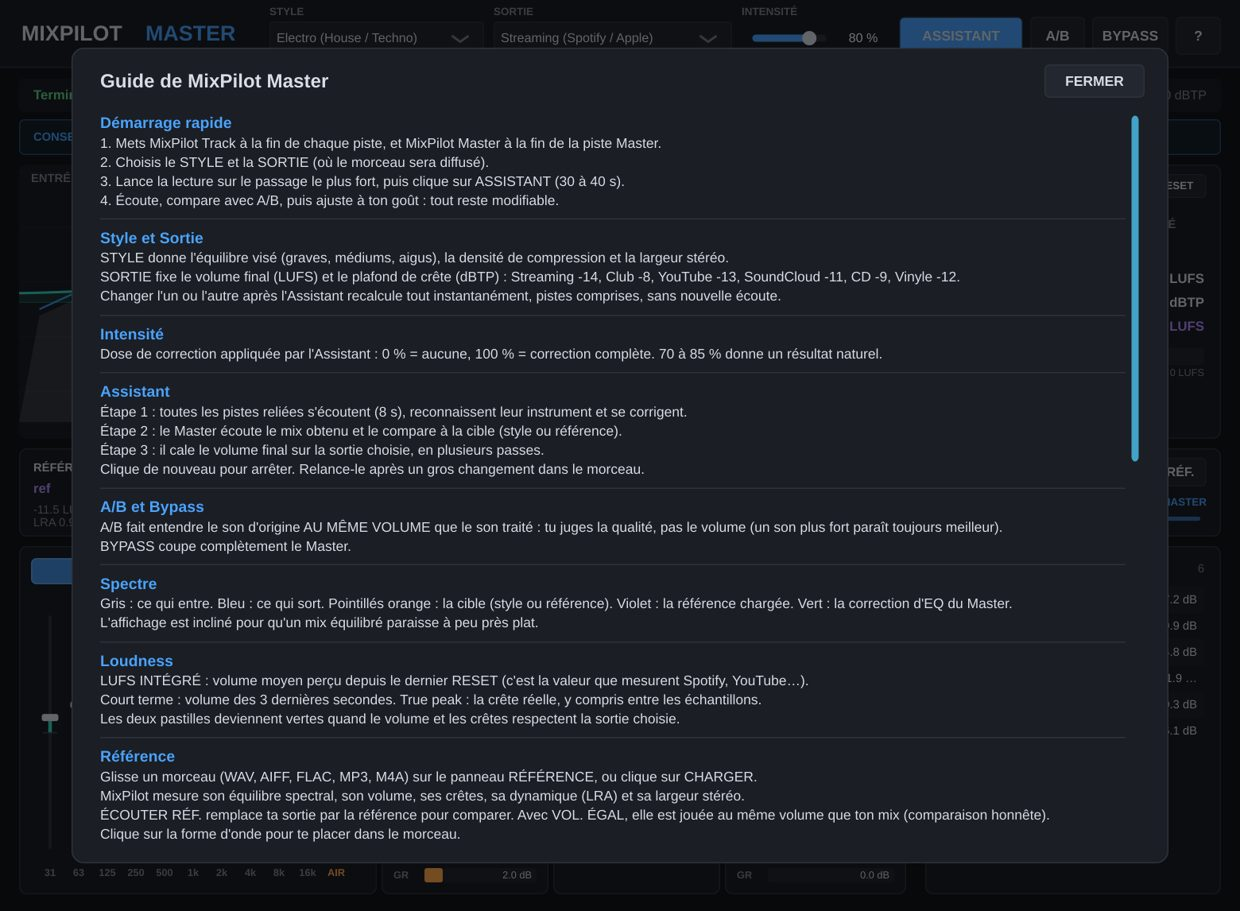
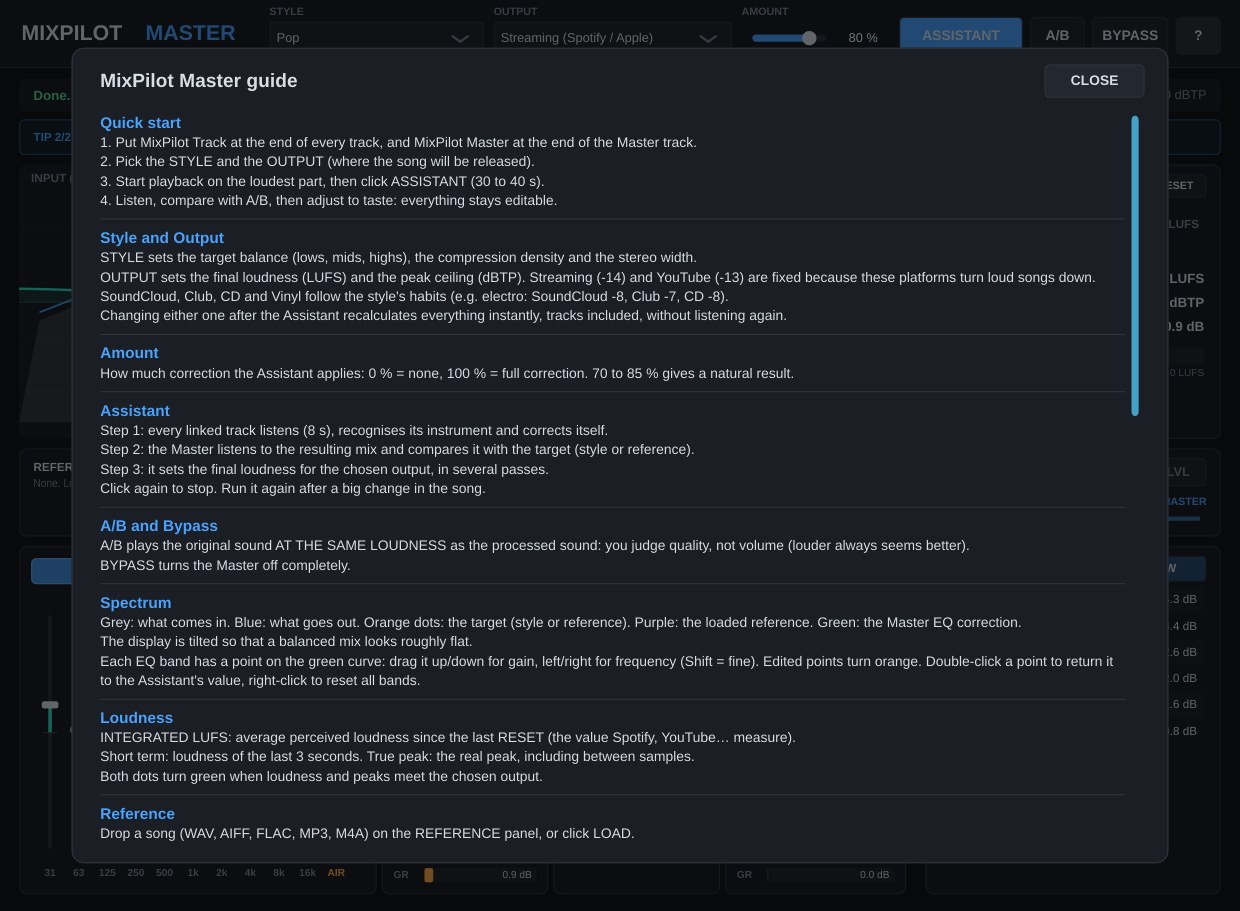
MixPilot screenshots: English 1.1 interface with the editable EQ
Claude-Session: https://claude.ai/code/session_01YWUtsht9CB1mmErXRbjodE

diff --git a/index.html b/index.html
@@ -389,13 +389,13 @@ nav a.nav-sow{color:#ff7a1a}
       </div>
       
     <div class="mp-shots">
-        <div class="screen mp-screen"><img id="mpshot" src="img/mixpilot-master.jpg" alt="MixPilot Master interface" width="1240" height="911"></div>
+        <div class="screen mp-screen"><img id="mpshot" src="img/mixpilot-master.jpg?v=2" alt="MixPilot Master interface" width="1240" height="911"></div>
         <div class="tabs" role="tablist" aria-label="MixPilot screenshots">
           <button class="tab mptab" role="tab" aria-selected="true" data-k="0">Master</button>
           <button class="tab mptab" role="tab" aria-selected="false" data-k="1">Track</button>
           <button class="tab mptab" role="tab" aria-selected="false" data-k="2">Built-in guide</button>
         </div>
-        <p class="caption" id="mpcap">MixPilot Master after ASSISTANT: -14.0 LUFS on target, reference track loaded, 6 linked tracks.</p>
+        <p class="caption" id="mpcap">MixPilot Master after ASSISTANT: -14.0 LUFS on target, no clipping, 6 linked tracks.</p>
       </div>
       <div class="rack-grid">
       <div class="copy">
@@ -652,9 +652,9 @@ nav a.nav-sow{color:#ff7a1a}
 
   var MPSRC={};
   var mps=[
-    {src:"img/mixpilot-master.jpg",cap:"MixPilot Master after ASSISTANT: -14.0 LUFS on target, reference track loaded, 6 linked tracks."},
-    {src:"img/mixpilot-track.jpg",cap:"MixPilot Track on a bass: detected at 99% confidence, low cut, EQ, compression and kick ducking."},
-    {src:"img/mixpilot-guide.jpg",cap:"Every section has its own guide inside the plug-in: click ? on any panel."}
+    {src:"img/mixpilot-master.jpg?v=2",cap:"MixPilot Master after ASSISTANT: -14.0 LUFS on target, no clipping, 6 linked tracks."},
+    {src:"img/mixpilot-track.jpg?v=2",cap:"MixPilot Track on a vocal, detected at 99% confidence. The orange EQ points were dragged by hand on top of the analysis."},
+    {src:"img/mixpilot-guide.jpg?v=2",cap:"Every section has its own guide inside the plug-in: click ? on any panel."}
   ];
   var mpi=document.getElementById('mpshot'),mpc=document.getElementById('mpcap');
   document.querySelectorAll('.mptab').forEach(function(t){
